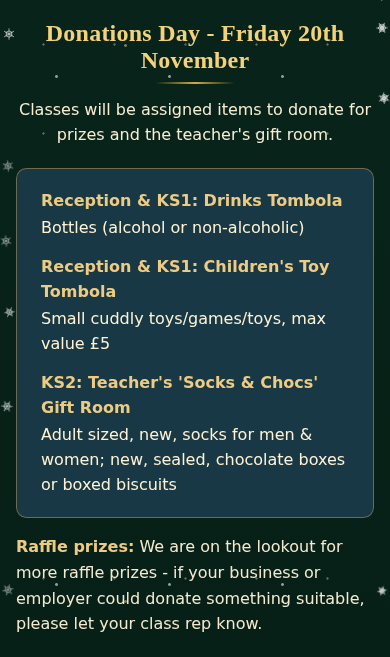
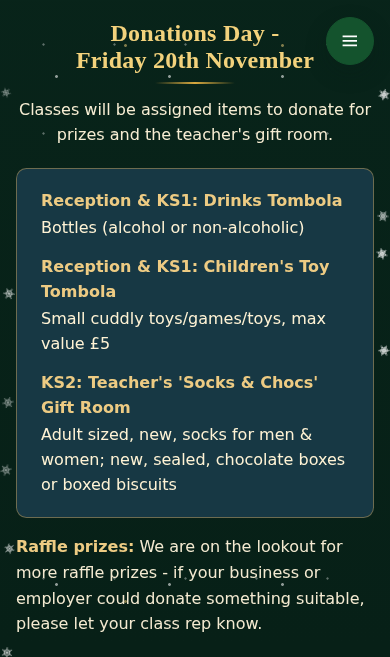
[CF-Pages-Skip] Start Donations Day date on a new mobile line

diff --git a/tests/e2e/donations-day.spec.ts b/tests/e2e/donations-day.spec.ts
@@ -12,6 +12,14 @@ for (const width of [320, 390, 768, 1440]) for (const theme of ['day', 'night'])
   if (scale === 200) await page.addStyleTag({content: 'html{font-size:200%!important}'});
   const section = page.locator('section[aria-labelledby="xmas-donations-title"]');
   await expect(section.getByRole('heading')).toHaveText('Donations Day - Friday 20th November');
+  const date = section.locator('.xmas-donations-date');
+  const heading = section.getByRole('heading');
+  const positions = await heading.evaluate(e => {const r=document.createRange();r.selectNodeContents(e.firstChild!);const d=e.querySelector('span')!;return {label:r.getBoundingClientRect().top,date:d.getBoundingClientRect().top}});
+  if (width < 768) expect(positions.date).toBeGreaterThan(positions.label);
+  if (scale === 100) {
+    const lineCount = await date.evaluate(e => {const r=document.createRange();r.selectNodeContents(e);return r.getClientRects().length});
+    expect(lineCount).toBe(1);
+  }
   await expect(section.locator('.xmas-section__lead')).not.toContainText('Friday 20th November');
   await expect(section.locator('li')).toHaveCount(3);
   await expect(section).toContainText('Bottles (alcohol or non-alcoholic)');
